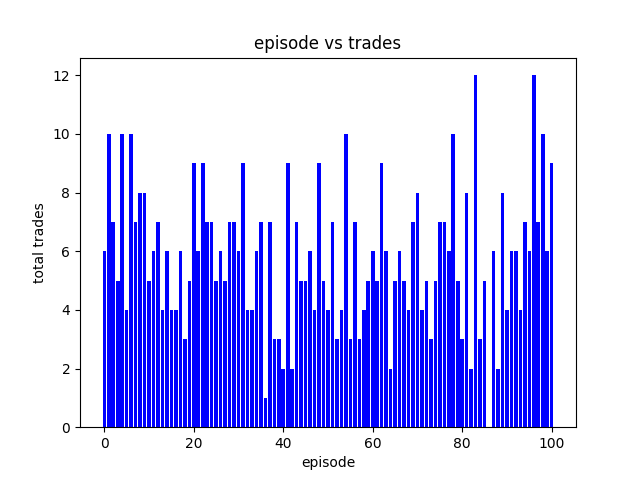
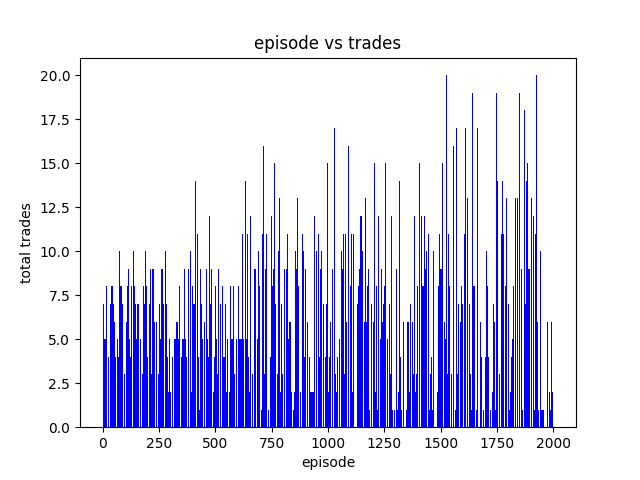
try 20 bars

diff --git a/dqn.py b/dqn.py
@@ -29,8 +29,8 @@ class Dqn:
             for t in range(l):
 
                 action = agent.choose_best_action(state)#tradeoff bw predict and random
-
-                reward, total_rewards, total_profits, total_trades = self.execute_action (action, data[t], total_rewards, total_profits, total_trades)
+                #print(f'state={state}')
+                reward, total_rewards, total_profits, total_trades = self.execute_action (action, data[t], t, total_rewards, total_profits, total_trades)
 
                 done = True if t == l - 1 else False
                 next_state = self.get_state(data, t + 1, window_size + 1)
@@ -39,17 +39,17 @@ class Dqn:
                 state = next_state
 
                 if done:
-                    print(f'Episode {episode}/{episodes} Total Profit: {formatPrice(total_profits)} , Total trades: {total_trades}, probability of random action: {agent.epsilon}')
+                    print(f'Episode {episode}/{episodes} Total Profit: {formatPrice(total_profits)} , Total trades: {total_trades}, probability of random action: {np.round(agent.epsilon,3)}')
                     print("---------------------------------------")
                     rewards_vs_episode.append(total_rewards)
-                    profit_vs_episode.append(total_profits)
+                    profit_vs_episode.append(np.round(total_profits,4))
                     trades_vs_episode.append(total_trades)
                     epsilon_vs_episode.append(agent.epsilon)
 
                 if len(agent.memory) > batch_size:#if memory of agent gets full:
                     agent.experience_replay(batch_size)#fit
                 #clean memory ?
-            if episode % 10 == 0:
+            if episode % 30 == 0:
                 model_name = "files/output/model_ep" + str(episode)
                 agent.model.save(model_name)
                 print(f'{model_name} saved')
@@ -61,12 +61,13 @@ class Dqn:
         return rewards_vs_episode, profit_vs_episode, trades_vs_episode, epsilon_vs_episode, model_name
 
 
-    def execute_action(self, action, close_price, total_rewards, total_profits, total_trades):
+    def execute_action(self, action, close_price, t, total_rewards, total_profits, total_trades):
+
         if action == 1:  # buy
             self.open_orders.append(close_price)
             total_trades += 1
             reward = 0
-            #print(f'row #{t} Buy  @ ' + formatPrice(data[t]))
+            #print(f'row #{t} Buy  @ ' + formatPrice(close_price))
 
         elif action == 2 and len(self.open_orders) > 0:  # sell (or exiting trade)
 
@@ -75,11 +76,11 @@ class Dqn:
             log_return = np.log(return_rate)#for normal distribution
             total_profits += log_return
             reward = log_return#get_reward(return_rate, total_profits)
-            #print(f'row #{t} exit @ ' + formatPrice(data[t]) + " | return_rate: " + formatPrice(return_rate))
+            #print(f'row #{t} exit @ ' + formatPrice(close_price) + " | return_rate: " + formatPrice(return_rate))
 
         else:  # hold
             reward = 0
-            # print (f'row #{t} Hold')
+            #print(f'row #{t} Hold')
         total_rewards += reward
         return reward, total_rewards, total_profits, total_trades
 

diff --git a/rl_dqn.py b/rl_dqn.py
@@ -8,22 +8,13 @@ print('time is') #episodes=2 +window=252 takes 354 sec
 print(datetime.now().strftime('%H:%M:%S'))
 start_time = time.time()
 seed()
-
-stock_name    = '^GSPC_2001_2010'#^GSPC_2001_2010  ^GSPC_1970_2018  ^GSPC_2011
-window_size   = 126# (t)   super simple features
-episodes      = 200# minimum 200 episodes for results. episode represent trade and learn on all data.
-batch_size    = 15#  (int) size of a batched sampled from replay buffer for training
-random_action_decay = 0.999995
-use_existing_model = False
-data          = getStockDataVec(stock_name)#https://www.kaggle.com/camnugent/sandp500
-l             = len(data) - 1
 np.set_printoptions(precision=4)
 np.set_printoptions(suppress=True) #prevent numpy exponential #notation on print, default False
 
 stock_name          = '^GSPC_20'#^GSPC_2001_2010  ^GSPC_1970_2018  ^GSPC_2011
-window_size         = 12# (t)   super simple features
-episodes            = 11# minimum 200 episodes for results. episode represent trade and learn on all data.
-batch_size          = 15#  (int) size of a batched sampled from replay buffer for training
+window_size         = 1# (t)   super simple features
+episodes            = 2000# minimum 200 episodes for results. episode represent trade and learn on all data.
+batch_size          = 2#  (int) size of a batched sampled from replay buffer for training
 random_action_decay = 0.99995
 use_existing_model  = False
 data                = getStockDataVec(stock_name)#https://www.kaggle.com/camnugent/sandp500
